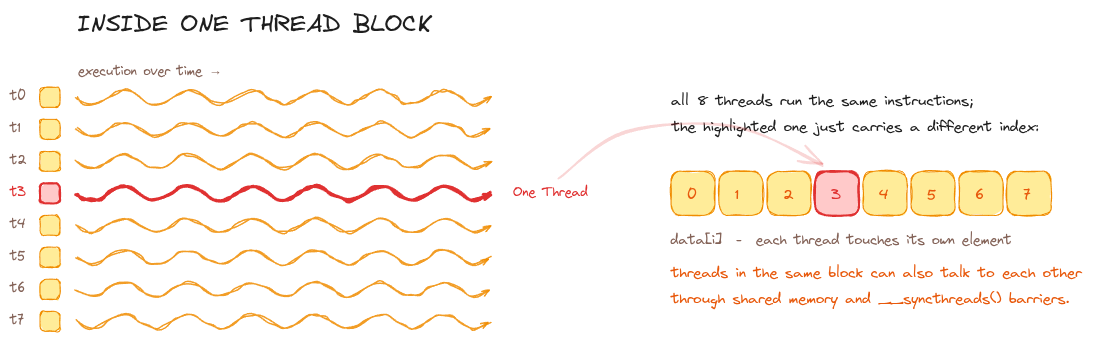
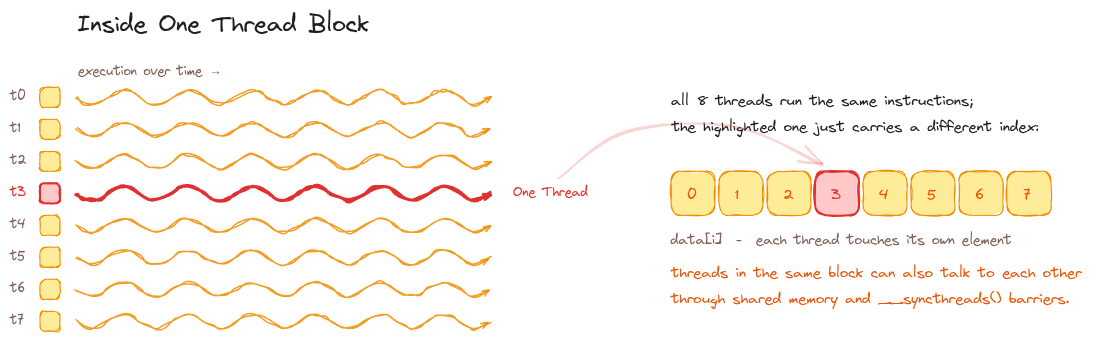
typo

Changed region(s): [[0.0615, 0.0293, 0.3996, 0.1173]]

diff --git a/content/essays/article4/page2.md b/content/essays/article4/page2.md
@@ -39,8 +39,6 @@ Practically speaking, when CUDA code is compiled into SASS instructions, a load 
 
 For a load, the LSU initiates a request to the memory hierarchy. The memory system first checks the appropriate cache levels, such as L1 and L2. If the data is found in L1, it is returned to the destination register. If there is an L1 cache miss but an L2 cache hit, the data is retrieved from L2 and returned to the register. If both caches miss, the data must ultimately be fetched from device memory (VRAM). 
 
-[Insert Image Here]
-
 Since we are working with a consumer grade GPU, the device memory (VRAM) refers to GDDR7. ON data-center GPUs like the H100, the device memory (VRAM) is HBM.
 
 ## Warp Schedulers
@@ -87,7 +85,7 @@ Identical source text in all of them, a different value in each. That one line i
 
 ![Zooming in one more level. Every thread in the block issues the same instructions; the index it computes from those built-ins is the only thing that sends it to a different element of the data.](/images/gemm/inside-thread-block.png)
 
-The diagram draws eight threads because eight of them fit on a page, but a real block is hundreds. What matters is that every one of them is running the same instruction stream. There is no per-thread program. There is one kernel body, and the index each thread computes is the only thing that sends it somewhere different in memory. This is what people mean when they call CUDA an **SPMD** model: single program, multiple data.
+The diagram draws eight threads because eight of them fit on a page, but a real block is hundreds. What matters is that every one of them is running the same instruction stream. There is no per-thread program. There is one kernel body, and the index each thread computes is the only thing that sends it somewhere different in memory. This is what people mean when they call CUDA an **SIMT** model: single instructions, multiple threads.
 
 Look at what that buys you in the line we just wrote. `blockIdx.y * blockDim.y + threadIdx.y` is identical source text in every thread, but `threadIdx.y` holds a different value in each one, so every thread lands on its own `row`. You never write a loop over the rows. The loop is the launch itself, and if you want to cover twice as much of the matrix you launch twice as many threads without touching the kernel.
 
